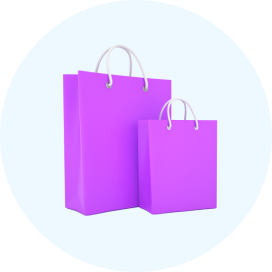
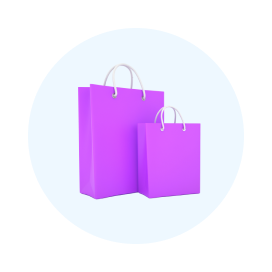
Доработать дизайн картинок категорий и текста

Changed region(s): [[0.2059, 0.1471, 0.8235, 0.7941], [0.3824, 0.1765, 0.4118, 0.2059], [0.3235, 0.4412, 0.3529, 0.4706]]

diff --git a/components/CategoriesSlider.tsx b/components/CategoriesSlider.tsx
@@ -3,7 +3,6 @@ import {observer} from 'mobx-react-lite'
 import {useTranslation} from 'next-i18next'
 import useEmblaCarousel from 'embla-carousel-react'
 import {parseCookies} from 'nookies'
-import {toJS} from 'mobx'
 import ImageWrapper from './ImageWrapper'
 import {
   useCategoriesStore,
@@ -47,8 +46,9 @@ const CategoriesSlider: FC = observer(() => {
                 title={c.name}
                 href={`/${locationCodes}/${c.slug}`}
                 className='relative cursor-pointer mr-4 '>
-                <div className='hover:text-primary-500 hover:font-medium text-greyscale-900'>
+                <div className='hover:text-primary-500 text-greyscale-900'>
                   <ImageWrapper
+                    quality={100}
                     type={`/img/categories/${c.slug}.png`}
                     width={136}
                     height={136}
@@ -56,7 +56,7 @@ const CategoriesSlider: FC = observer(() => {
                     className='rounded-xl'
                     layout='fixed'
                   />
-                  <p className='text-body-18 text-center mt-4'>{c.name}</p>
+                  <p className='text-body-16 text-center mt-4'>{c.name}</p>
                 </div>
               </LinkWrapper>
             ))}
